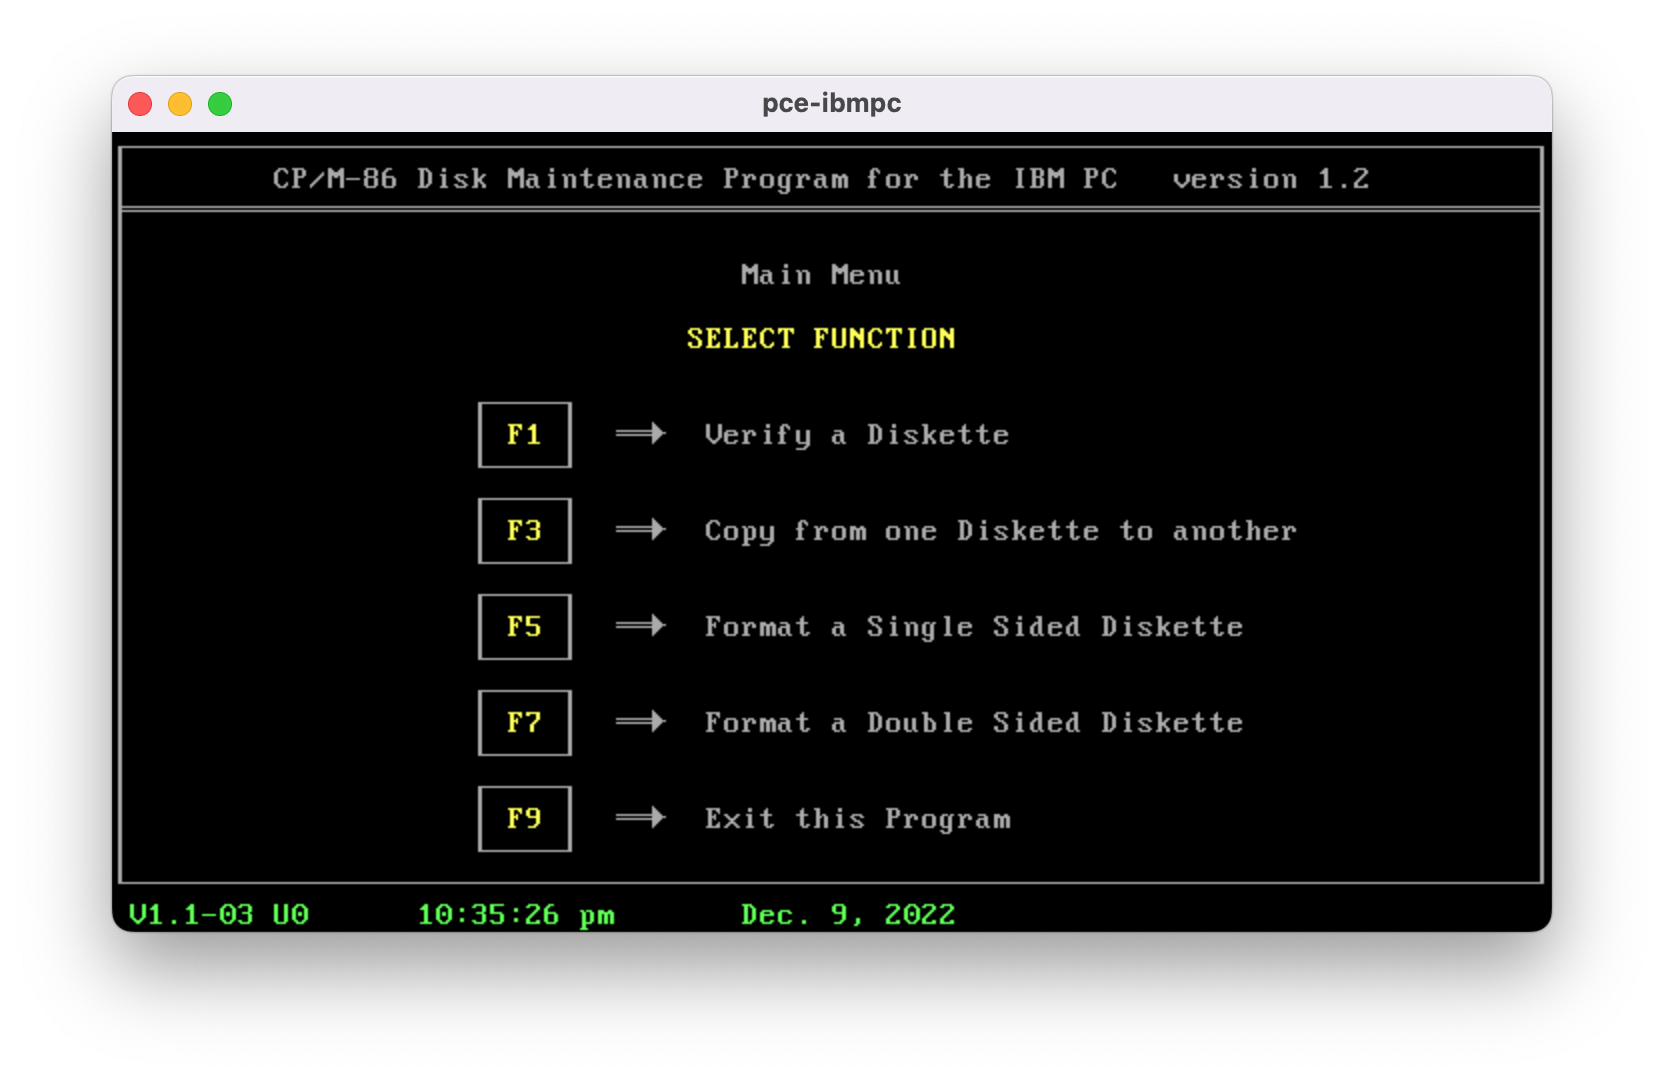
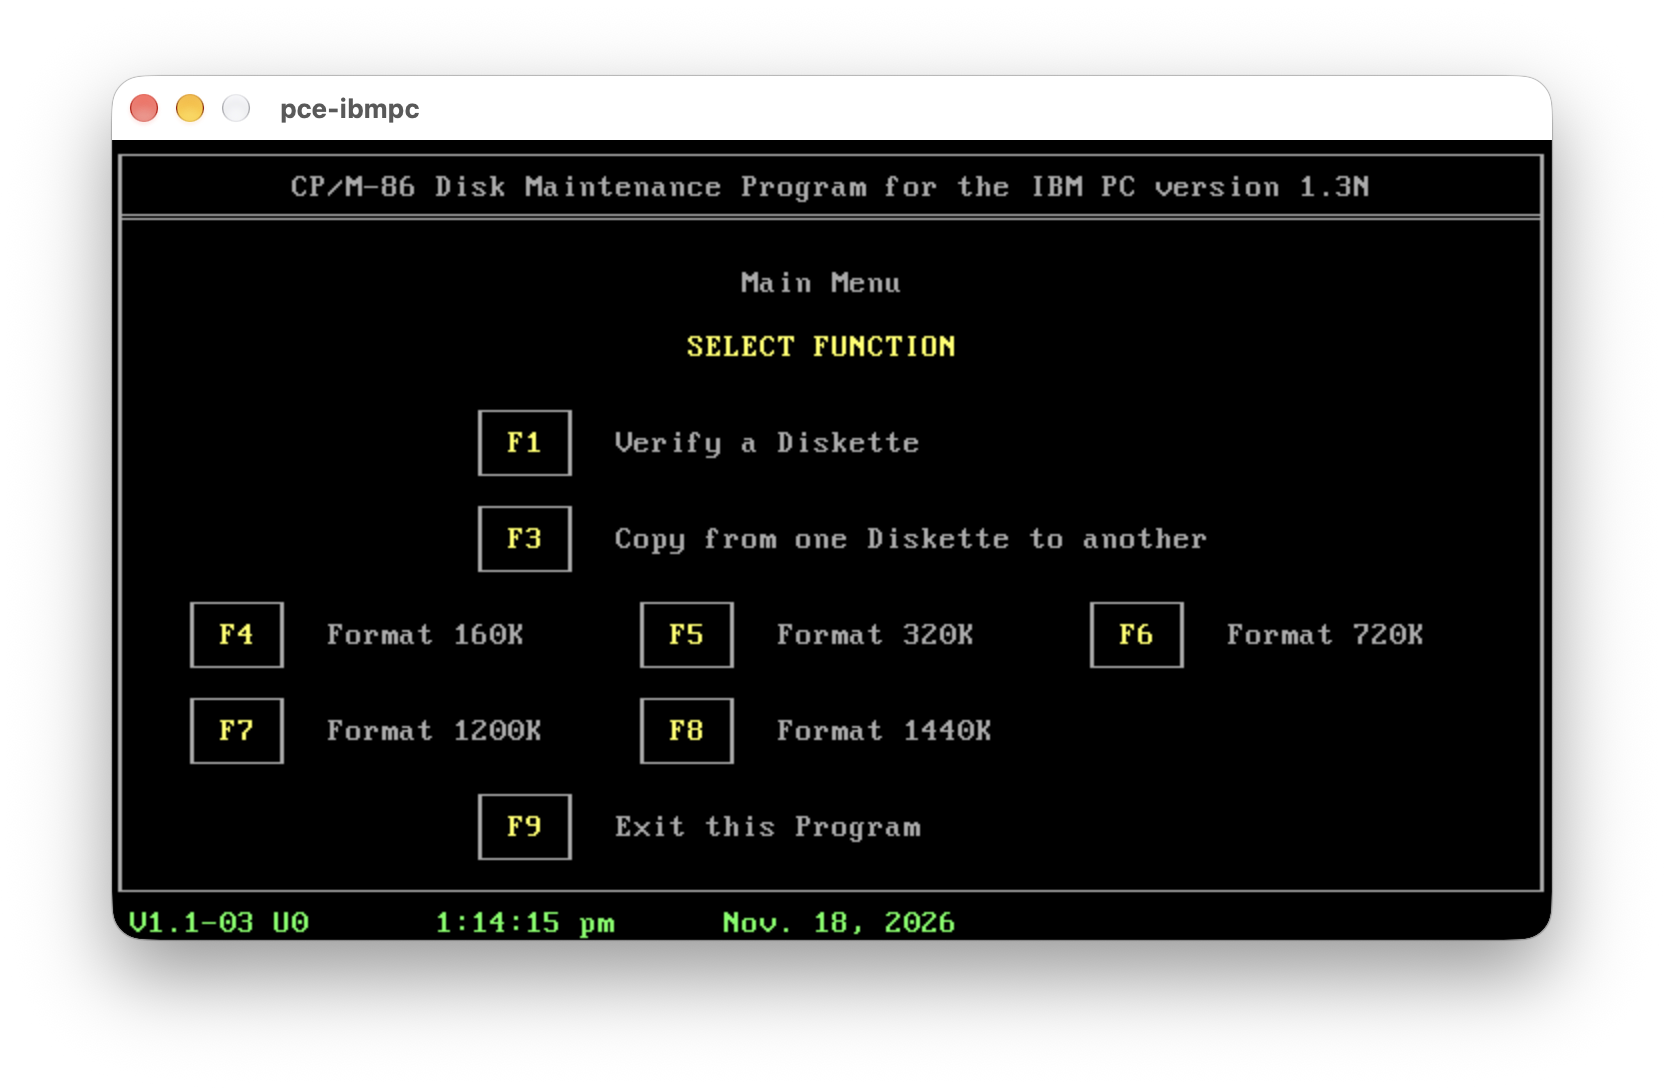
cleanup

diff --git a/README.md b/README.md
@@ -150,7 +150,7 @@ Original/patched binaries live in `base/`; source builds live in `commands/`. Im
 | `dcopy` | — | Copy 160/180/320/360K CP/M or FAT media |
 | `ddt86` | Original | CCP/M-86 3.1 port |
 | `dform` | — | Command-line formatter using DSKMAINT's boot sector and loader |
-| `dskmaint` | Updated 1.0→1.2 | Reconstructed CP/M-86 source |
+| `dskmaint` | Updated 1.0→1.3N | Reconstructed CP/M-86 source |
 | `ed` | DR-patched | CCP/M-86 3.1 port |
 | `function` | Original | Reconstructed CP/M-86 source |
 | `gencmd` | Original | CCP/M-86 3.1 port |
@@ -331,8 +331,8 @@ Use [PCE](http://www.hampa.ch/pce/) with cpmtools for testing, or try the 160K i
 <img src="./images/menu.png" alt="CP/M-86 Menu" width="48%">
 <br><sub>V20 MBC hardware &nbsp;·&nbsp; CP/M-86 running in PCE</sub><br>
 <img src="./images/setup.png" alt="BIOS Setup 1.2" width="48%">
-<img src="./images/dskmaint.png" alt="Disk Maintenance 1.2" width="48%">
-<br><sub>BIOS Setup 1.2 &nbsp;·&nbsp; Disk Maintenance 1.2</sub>
+<img src="./images/dskmaint.png" alt="Disk Maintenance 1.3N" width="48%">
+<br><sub>BIOS Setup 1.2 &nbsp;·&nbsp; Disk Maintenance 1.3N</sub>
 </p>
 
 ---
